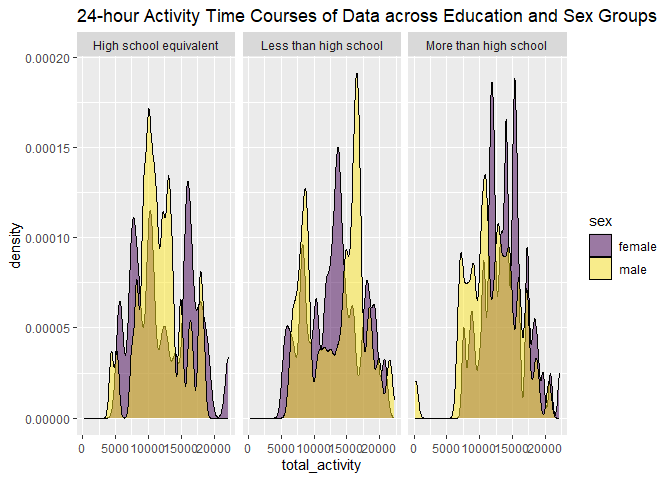
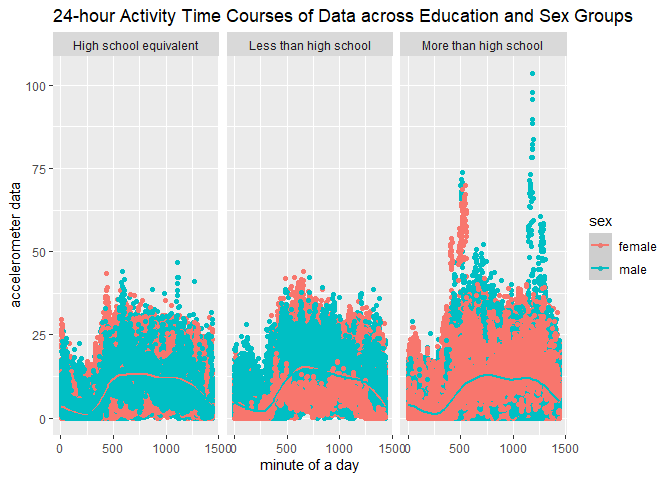
Commit on 10/14/2023

diff --git a/p8105_hw3_zh2596.md b/p8105_hw3_zh2596.md
@@ -1,18 +1,18 @@
 p8105_hw3_zh2596
 ================
 Zilin Huang
-2023-10-13
+2023-10-14
 
-    ## ── Attaching core tidyverse packages ──────────────────────── tidyverse 2.0.0 ──
-    ## ✔ dplyr     1.1.3     ✔ readr     2.1.4
-    ## ✔ forcats   1.0.0     ✔ stringr   1.5.0
-    ## ✔ ggplot2   3.4.3     ✔ tibble    3.2.1
-    ## ✔ lubridate 1.9.2     ✔ tidyr     1.3.0
-    ## ✔ purrr     1.0.2     
-    ## ── Conflicts ────────────────────────────────────────── tidyverse_conflicts() ──
-    ## ✖ dplyr::filter() masks stats::filter()
-    ## ✖ dplyr::lag()    masks stats::lag()
-    ## ℹ Use the conflicted package (<http://conflicted.r-lib.org/>) to force all conflicts to become errors
+``` r
+library(tidyverse)
+library(ggplot2)
+library(patchwork)
+library(readr)
+library(dplyr)
+library(p8105.datasets)
+data("instacart")
+data("brfss_smart2010")
+```
 
 ## Problem 1
 
@@ -135,11 +135,6 @@ brfss_smart2010 |>
   mutate(
     Response == forcats::fct_relevel(Response, c("Poor", "Fair", "Good", "Very Good", "Excellent")))
 ```
-
-    ## Warning: There was 1 warning in `mutate()`.
-    ## ℹ In argument: `==...`.
-    ## Caused by warning:
-    ## ! 1 unknown level in `f`: Very Good
 
     ## # A tibble: 8,500 × 24
     ##     Year Locationabbr Locationdesc     Class Topic Question Response Sample_Size
@@ -290,34 +285,15 @@ nhanes_covar =
         3 ~ "More than high school"),
     education = as.factor(education),
     seqn = as.character(seqn)) 
-```
 
-    ## Rows: 250 Columns: 5
-    ## ── Column specification ────────────────────────────────────────────────────────
-    ## Delimiter: ","
-    ## dbl (5): SEQN, sex, age, BMI, education
-    ## 
-    ## ℹ Use `spec()` to retrieve the full column specification for this data.
-    ## ℹ Specify the column types or set `show_col_types = FALSE` to quiet this message.
-
-``` r
 nhanes_accel =
    read_csv("./data/nhanes_accel.csv") |>
    janitor::clean_names() |>
    mutate(seqn = as.character(seqn))
 ```
 
-    ## Rows: 250 Columns: 1441
-    ## ── Column specification ────────────────────────────────────────────────────────
-    ## Delimiter: ","
-    ## dbl (1441): SEQN, min1, min2, min3, min4, min5, min6, min7, min8, min9, min1...
-    ## 
-    ## ℹ Use `spec()` to retrieve the full column specification for this data.
-    ## ℹ Specify the column types or set `show_col_types = FALSE` to quiet this message.
-
-# this steps merges the two tables together
-
 ``` r
+# this steps merges the two tables together
 merge_df =
   left_join(nhanes_covar, nhanes_accel, by = "seqn") |>
   pivot_longer(min1:min1440,
@@ -333,9 +309,6 @@ nhanes_covar |>
   group_by(sex, education) |>
   summarize(number_of_male_or_female = n())
 ```
-
-    ## `summarise()` has grouped output by 'sex'. You can override using the `.groups`
-    ## argument.
 
     ## # A tibble: 6 × 3
     ## # Groups:   sex [2]
@@ -377,8 +350,6 @@ ggplot(data=merge_df, aes(x=age,y=total_activity, color=sex)) +
   labs(title="Accelerometer Data Trend across Education and Sex Groups")
 ```
 
-    ## `geom_smooth()` using method = 'gam' and formula = 'y ~ s(x, bs = "cs")'
-
 ![](p8105_hw3_zh2596_files/figure-gfm/unnamed-chunk-15-1.png)<!-- -->
 The figure shows that in general, men have a lower value of
 accelerometer data than women when they receive high school education at
@@ -387,16 +358,20 @@ least, while men’s data values is higher than women in the group of
 value has a decreasing trend when both men and women’s age increase.
 
 ``` r
-ggplot(data=merge_df, aes(x=total_activity, fill=sex)) +
-  geom_density(alpha=.5) +
+merge_df |>
+  mutate(min_numeric = as.numeric(substring(min,4))) |>
+  ggplot(aes(x=min_numeric, y=`accelerometer data`, color=sex)) +
+  geom_point() + 
+  geom_smooth() +
   facet_grid(~education) + 
   viridis::scale_fill_viridis(discrete = TRUE) +
-  labs(title="24-hour Activity Time Courses of Data across Education and Sex Groups")
+  labs(title="24-hour Activity Time Courses of Data across Education and Sex Groups",
+       x="minute of a day")
 ```
 
 ![](p8105_hw3_zh2596_files/figure-gfm/unnamed-chunk-16-1.png)<!-- -->
 
 The three-panel plot shows that the 24-hour activity time courses of the
-accelerometer data centers around the range of (10000, 15000) for each
+accelerometer data centers around the range of (0, 25) for each
 education and sex group. Specifically, female’s data values has a more
 centralized focus than male in the group of “More than High School”.
